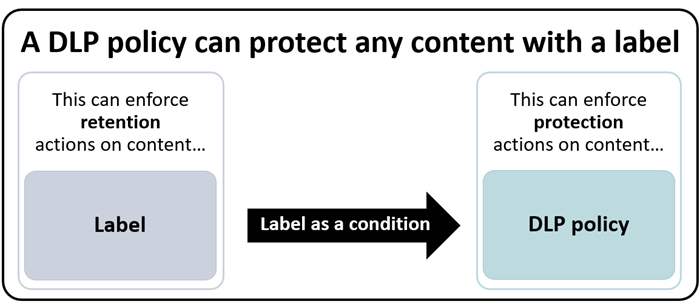
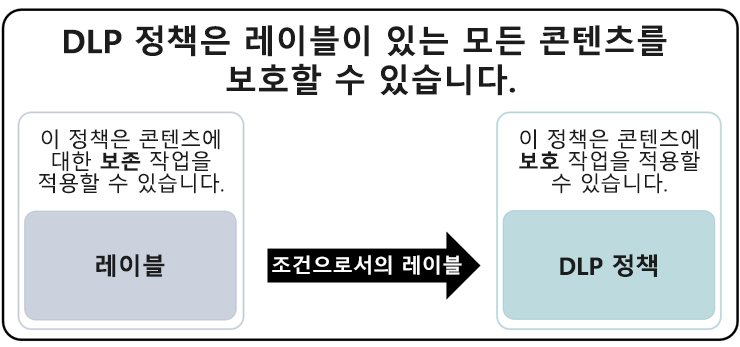
commit translated contents

Changed region(s): [[0.0, 0.0, 1.0, 0.9967], [0.75, 0.7036, 0.9, 0.8208], [0.12, 0.7036, 0.24, 0.8208]]

diff --git a/microsoft-365/compliance/audit-log-retention-policies.md b/microsoft-365/compliance/audit-log-retention-policies.md
@@ -1,0 +1,149 @@
+---
+title: 로그 보존 정책 감사 관리
+f1.keywords:
+- NOCSH
+ms.author: markjjo
+author: markjjo
+manager: laurawi
+audience: Admin
+ms.topic: article
+ms.service: O365-seccomp
+localization_priority: Priority
+ms.collection:
+- M365-security-compliance
+- SPO_Content
+search.appverid:
+- MOE150
+- MET150
+ms.assetid: ''
+description: 감사 로그 보존 정책은 Microsoft 365의 새로운 고급 감사 기능의 일부입니다. 감사 로그 보존 정책을 사용하여 조직에서 감사 로그를 보존할 기간을 지정할 수 있습니다.
+ms.openlocfilehash: 00e3ba527ee72fced0d264457375210e138b006e
+ms.sourcegitcommit: 570ad1c7c334476ecec00dc355dfe52e8c2bb87b
+ms.translationtype: HT
+ms.contentlocale: ko-KR
+ms.lasthandoff: 02/08/2020
+ms.locfileid: "41862416"
+---
+# <a name="manage-audit-log-retention-policies"></a>로그 보존 정책 감사 관리
+
+보안 및 준수 센터에서 감사 로그 보존 정책을 작성하고 관리할 수 있습니다. 감사 로그 보존 정책은 Microsoft 365의 새로운 고급 감사 기능의 일부입니다. 감사 로그 보존 정책을 사용하여 조직에서 감사 로그를 보존할 기간을 지정할 수 있습니다. 감사 로그를 최대 1년 동안 보유할 수 있습니다. 다음 조건을 기준으로 정책을 만들 수 있습니다.
+
+- 하나 이상의 Microsoft 365 서비스에서의 모든 활동
+
+- 모든 사용자 또는 특정 사용자가 수행하는 (특정 서비스에서의) 특정 활동
+
+- 조직에 여러 정책이 있을 때 더 중시하는 정책을 지정하는 우선 순위
+
+## <a name="default-audit-log-retention-policy"></a>기본 로그 보존 정책 감사
+
+Microsoft 365의 고급 감사는 모든 조직에 기본 감사 로그 보존 정책을 제공합니다. 이 정책은 1년 동안 모든 Exchange, SharePoint 및 Azure Active Directory 감사 레코드를 보존합니다. 이 기본 정책은 **Workload** 속성(활동이 발생한 서비스)에 대한 **AzureActiveDirectory**, **Exchange** 또는 **SharePoint** 값을 포함하는 감사 레코드를 유지합니다. 기본 정책은 수정할 수 없습니다. 기본 정책에 포함된 각 워크로드의 레코드 유형 목록은 이 문서의 [추가 정보](#more-information) 섹션을 참조하십시오.
+
+> [!NOTE]
+> 기본 감사 로그 보존 정책은 Office 365 또는 Microsoft 365 E5 라이선스가 할당되었거나 Microsoft 365 E5 준수 애드온 라이선스가 있는 사용자가 수행한 활동에 대한 감사 레코드에만 적용됩니다. 조직에 E5 이외의 사용자가 있는 경우 해당 감사 레코드는 90일 동안 유지됩니다.
+
+## <a name="before-you-begin"></a>시작하기 전에
+
+- 사용자는 감사 보존 정책을 만들거나 수정하기 위해 보안 및 준수 센터에서 조직 구성 역할을 할당 받아야 합니다.
+
+- 조직에서 최대 50개의 감사 로그 보존 정책을 가질 수 있습니다.
+
+- 감사 로그를 90일 이상 유지하려면 감사 로그를 생성한 사용자에게 Office 365 또는 Microsoft 365 E5 라이선스가 할당되거나 Microsoft 365 E5 준수 애드온 라이선스가 있어야 합니다.
+
+- 조직에서 생성한 모든 사용자 지정 감사 로그 보존 정책은 기본 보존 정책보다 우선합니다. 예를 들어, 보존 기간이 1년보다 짧은 Exchange 사서함 활동에 대한 감사 로그 보존 정책을 만들면 Exchange 사서함 활동에 대한 감사 레코드가 사용자 지정 정책에 의해 지정된 기간 동안 유지됩니다.
+
+## <a name="create-an-audit-log-retention-policy-in-the-security--compliance-center"></a>보안 및 준수 센터에서 감사 로그 보존 정책 생성
+
+1. [https://protection.office.com](https://protection.office.com)으로 이동하여 지정된 사용자 계정으로보안 및 준수 센터의 조직 구성 역할로 로그인하십시오. 
+
+2. 보안 및 규정 준수 센터의 왼쪽 창에서 **검색** > **감사 로그 검색**을 클릭하십시오.
+
+    **감사 로그 검색** 페이지가 표시됩니다.
+
+    ![감사 로그 검색 페이지](media/AuditLogRetentionPolicy1.png)
+
+3. **새 보존 정책**을 클릭한 후 플라이 아웃 페이지에서 다음 필드를 완료하십시오.
+
+    ![감사 로그 보존 정책 플라이 아웃 페이지](media/AuditLogRetentionPolicy2.png)
+
+   a. **이름:** 감사 로그 보존 정책의 이름 이 이름은 조직에서 고유해야 합니다.
+   
+   b. **설명:** 선택 사항이지만 레코드 유형 또는 워크로드, 정책에 지정된 사용자 및 기간과 같은 정책에 대한 정보를 제공하는 데 도움이 됩니다.
+
+   c. **레코드 유형:** 정책이 적용되는 감사 레코드 유형. 하나 이상의 레코드 유형을 선택하면 정책이 선택한 레코드 유형의 모든 활동에 적용되므로 활동을 선택할 수 없습니다. 또한 이 속성을 비워두면 **사용자** 상자에서 사용자를 선택해야합니다.
+
+   d. **활동:** 이 상자를 사용하여 선택한 레코드 유형에서 활동을 선택하십시오. 정책을 적용할 특정 활동을 선택할 수 있습니다. 특정 활동을 선택하지 않으면 선택한 레코드 유형의 모든 활동에 정책이 적용됩니다.
+
+   e. **사용자:** 정책을 적용할 하나 이상의 사용자를 선택하십시오. 이 상자를 비워 두면 정책이 모든 사용자에 게 적용됩니다. **레코드 유형**을 비워둔 경우, 반드시 사용자를 선택해야 합니다.
+
+   f. **기간:** 정책 기준을 충족하는 감사 로그를 보유하는 시간입니다.
+
+   g. **우선 순위:** 이 값은 조직의 감사 로그 보존 정책이 처리되는 순서를 결정합니다. 값이 높을수록 우선 순위가 높습니다. 예를 들어, 우선 순위 값이 **5**인 정책은 우선 순위 값이 **0**인 정책보다 우선합니다. 앞에서 설명한 것처럼 사용자 지정 감사 로그 보존 정책은 조직의 기본 정책보다 우선합니다.
+
+6. **저장**을 클릭하여 새 감사 로그 보존 정책을 만듭니다. 
+
+이 시점에서는 보존 정책이 생성되었다는 표시가 없습니다. 감사 로그 보존 정책의 속성 보기에 대해서는 다음 섹션을 참조하십시오.
+
+## <a name="create-an-audit-log-retention-policy-in-powershell"></a>PowerShell에서 감사 로그 보존 정책 생성
+
+Office 365 보안 및 준수 센터 PowerShell을 사용하여 감사 로그 보존 정책을 만들 수도 있습니다. 
+
+1. [보안 및 준수 센터 PowerShell에 연결하기](https://docs.microsoft.com/powershell/exchange/office-365-scc/connect-to-scc-powershell/connect-to-scc-powershell)
+
+2. 다음 명령을 실행하여 감사 로그 보존 정책을 생성하십시오. 
+
+   ```powershell
+   New-UnifiedAuditLogRetentionPolicy -Name "Microsoft Teams Audit Policy" -Description "One year retention policy for all Microsoft Teams activities" -RecordTypes MicrosoftTeams -RetentionDuration TwelveMonths -Priority 100
+   ```
+    
+    이 예에서는 다음 설정으로 "Microsoft Teams Audit Policy"라는 감사 로그 보존 정책을 만듭니다.
+
+   - 정책에 대한 설명입니다.
+
+   - 모든 Microsoft Teams 활동을 유지합니다(*RecordType* 매개 변수로 정의된 대로).
+
+   - 1년 동안 Microsoft Teams 감사 로그를 유지합니다.
+
+   - 우선 순위 100위
+
+다음은 감사 로그 보존 정책을 만드는 또 다른 예시입니다. 이 정책은 사용자 admin@contoso.onmicrosoft.com에 대해 6 개월 동안 "사용자 로그인" 활동에 대한 감사 로그를 유지합니다.
+
+```powershell
+New-UnifiedAuditLogRetentionPolicy -Name "SixMonth retention for admin logons" -RecordTypes AzureActiveDirectoryStsLogon -Operations UserLoggedIn -UserIds admin@contoso.onmicrosoft.com -RetentionDuration SixMonths -Priority 25
+```
+
+자세한 정보는 [New-UnifiedAuditLogRetentionPolicy](https://docs.microsoft.com/powershell/module/exchange/policy-and-compliance-audit/new-unifiedauditlogretentionpolicy)를 참조하십시오.
+
+## <a name="view-audit-log-retention-policies"></a>로그 보존 정책 감사 보기
+
+현재 사용자 지정 감사 로그 보존 정책을 보는 유일한 방법은 보안 및 규정 준수 센터 PowerShell에서 **Get-UnifiedAuditRetentionPolicy** cmdlet을 사용하는 것입니다. 다음은 조직의 감사 로그 보존 정책에 대한 설정(이전 단계에서 구성한)을 표시하는 샘플 명령입니다. 이 명령은 정책을 가장 높은 우선 순위에서 가장 낮은 우선 순위로 정렬합니다.
+
+```powershell
+Get-UnifiedAuditLogRetentionPolicy | Sort-Object -Property Priority -Descending | FL Priority,Name,Description,RecordTypes,Operations,UserIds,RetentionDuration
+```
+
+> [!NOTE]
+> 현재 **Get-UnifiedAuditLogRetentionPolicy** cmdlet은 조직의 기본 감사 로그 정책을 반환하지 않습니다.
+
+자세한 정보는 [Get-UnifiedAuditLogRetentionPolicy](https://docs.microsoft.com/powershell/module/exchange/policy-and-compliance-audit/new-unifiedauditlogretentionpolicy)를 참조하십시오.
+
+## <a name="more-information"></a>추가 정보
+
+- 보안 및 규정 센터 PowerShell에서 **Set-UnifiedAuditLogRetentionPolicy** cmdlet을 사용하여 기존 감사 로그 보존 정책을 수정하십시오. 자세한 정보는 [Set-UnifiedAuditLogRetentionPolicy](https://docs.microsoft.com/powershell/module/exchange/policy-and-compliance-audit/set-unifiedauditlogretentionpolicy)를 참조하십시오.
+
+- 보안 및 준수 센터 PowerShell에서 **Remove-UnifiedAuditLogRetentionPolicy** cmdlet을 사용하여 감사 로그 보존 정책을 삭제하십시오. 정책을 완전히 제거하는 데 최대 30분이 걸릴 수 있습니다. 자세한 정보는 [Remove-UnifiedAuditLogRetentionPolicy](https://docs.microsoft.com/powershell/module/exchange/policy-and-compliance-audit/remove-unifiedauditlogretentionpolicy)를 참조하십시오.
+
+- 앞에서 설명한 것처럼 Azure Active Directory, Exchange 및 SharePoint의 작업에 대한 감사 레코드는 1년 동안 유지됩니다. 다음 표에는 기본 감사 로그 보존 정책에 포함된 (이러한 서비스 각각에 대한) 모든 레코드 유형이 나열되어 있습니다. 이는 특정 레코드 유형, 작업 또는 사용자에 대해 사용자 지정 감사 로그 보존 정책이 우선하지 않는 한 이 레코드 유형의 작업에 대한 감사 로그가 1년 동안 보존됨을 의미합니다. 각 레코드 유형에 대한 Enum 값(감사 레코드의 RecordType 속성 값으로 표시됨)이 괄호 안에 표시됩니다.
+
+   |AzureActiveDirectory |Exchange  |SharePoint|
+   |:---------|:---------|:---------|
+   |AzureActiveDirectory (8)|ExchangeAdmin (1)|ComplianceDLPSharePoint (11)|
+   |AzureActiveDirectoryAccountLogon (9)|ExchangeItem (2)|ComplianceDLPSharePointClassification (33)|
+   |AzureActiveDirectoryStsLogon (15)|캠페인 (62)|프로젝트 (35)|
+   ||ComplianceDLPExchange (13)|SharePoint (4)|
+   ||ComplianceSupervisionExchange (68)|SharePointCommentOperation (37)|
+   ||CustomerKeyServiceEncryption (69)|SharePointContentTypeOperation (55)|
+   ||ExchangeAggregatedOperation (19)|SharePointFieldOperation (56)|
+   ||ExchangeItemAggregated (50)|SharePointFileOperation (6)|
+   ||ExchangeItemGroup (3)|SharePointListOperation (36)|
+   ||InformationBarrierPolicyApplication (53)|SharePointSharingOperation (14)|
+   ||||
